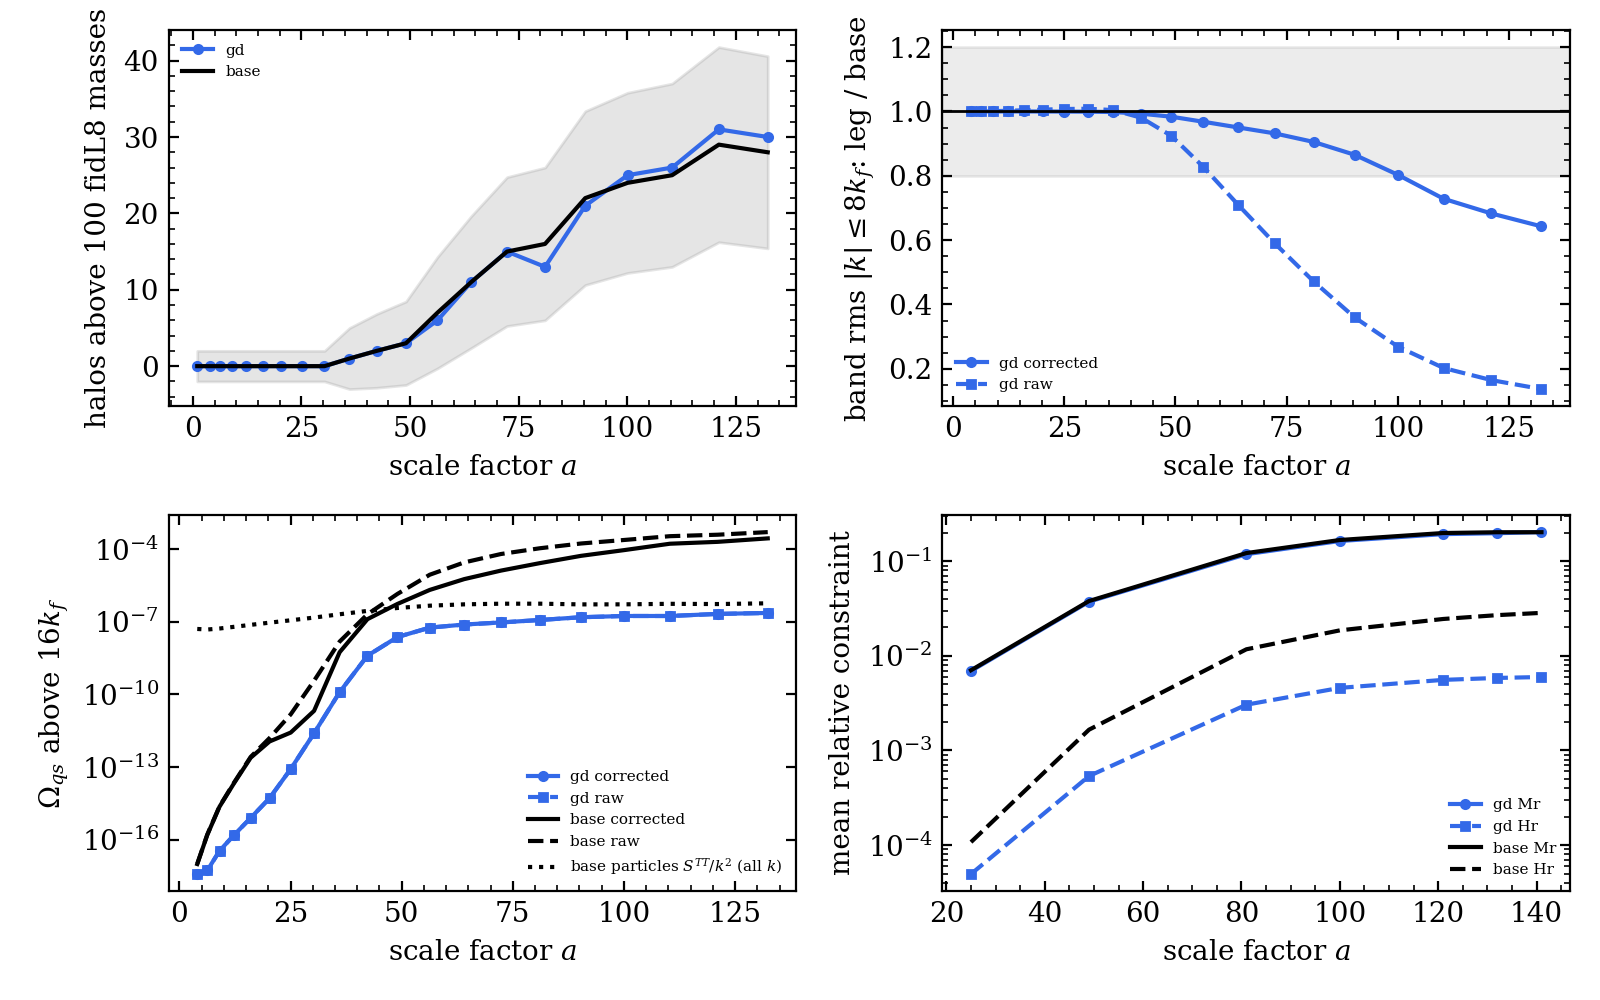
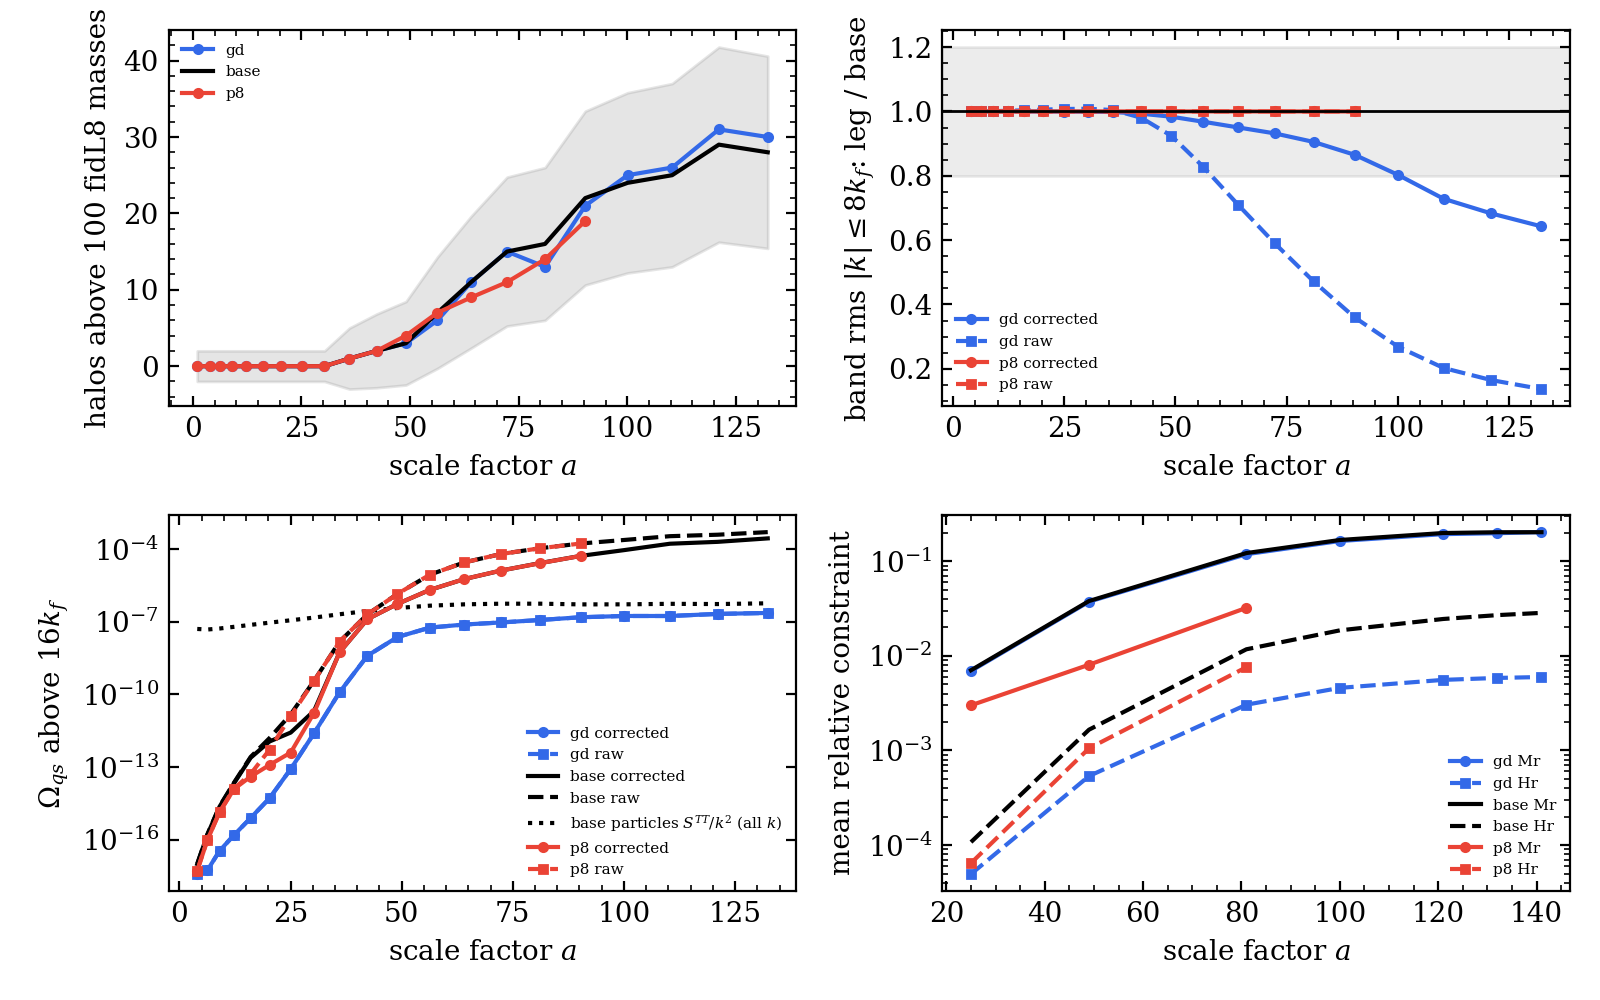
Population particle leg to a = 95: momentum constraint 2-5 times lower with 8 per cell, strain and high-k excess unchanged (Q1 second part fails), counts hold
Runs: B-20261124-223926-33194d9 (cut at a = 94.8), analysis B-20261125-115657-91b61ec,
comparison of both legs B-20261125-121830-9ecb59c.

diff --git a/tracks/B-emd-gw/population/JOURNAL.md b/tracks/B-emd-gw/population/JOURNAL.md
@@ -669,3 +669,28 @@ comparison with the zero-shift base B-20261124-131918-e71996f, run B-20261125-12
   a = 36, 1.95 at a = 42; zero-shift 1.37, 1.68, 3.3): it is the growth of the halos, which the
   linear design does not hold. Not yet done: the same comparison with the GW measure of the
   Newtonian reference at the same particles (N4).
+
+## 2026-11-25 04:20 PST (lead of batch 17): Q1-Q2 to a = 94.8 (particle leg, cut)
+
+Analysis B-20261125-115657-91b61ec (`analyze_gr.py` on B-20261124-223926-33194d9, 8 per cell, to
+t = 17.477) and the comparison of both legs with the base, B-20261125-121830-9ecb59c (figure
+`figs/pop_legs.png`, now with the gauge and particle legs, looked at). [VERIFIED by them]
+- Q1 (judged at a = 141 as written; this is its part up to a = 94.8). First part on course:
+  Mr_mean 8 per cell over one per cell 0.43 (a = 25), 0.21 (49), 0.26 (81): the momentum
+  constraint falls 2.3-4.7 times with eight times the particles, more than the square root of 8.
+  Second part FAILS already: Omega_qs above 16 k_f is the base's to three digits after a = 36
+  (2.035e-6 against 2.033e-6 at a = 56, 5.193e-5 against 5.192e-5 at a = 90; predicted at least two
+  times smaller). The high-k excess does not depend on particle number, consistent with GD3 (it is
+  the zero-shift coordinates). Hr_mean 1.5 times smaller (7.6e-3 against 1.17e-2 at a = 81).
+- Q2 to a = 90: counts HOLD (9/11 at a = 64, 11/15, 14/16, 19/22 at a = 90, inside 2 sqrt(N) + 2);
+  largest masses within 5 per cent FAIL at a = 64 (1.41: a merger counted at a different moment
+  or linked differently; the linking length is b = 0.2 of the own mean spacing, half as long here)
+  and hold at a = 72-90 (1.048, 1.014, 1.016).
+- Not predicted: the metric strain of the eight-per-cell run equals the one-per-cell strain over
+  |k| <= 8 k_f to 1e-3 at every dump to a = 90 (band ratios 1.000), and K_min, K_max of the box agree
+  to 1e-7 relative early and 1e-2 at a = 81: at this mesh the metric is set by the mesh-deposited
+  density, which one particle per cell with the PCS cloud already samples; particle number moves the
+  constraints and the halo catalogue, not the strain.
+- Q1 is judged in full when the continuation q0042 (P8C) has run; the leg is merged with the cut
+  run's directory in the analysis (snapshots to t = 17 from the cut run, from t = 18 from the
+  continuation).
